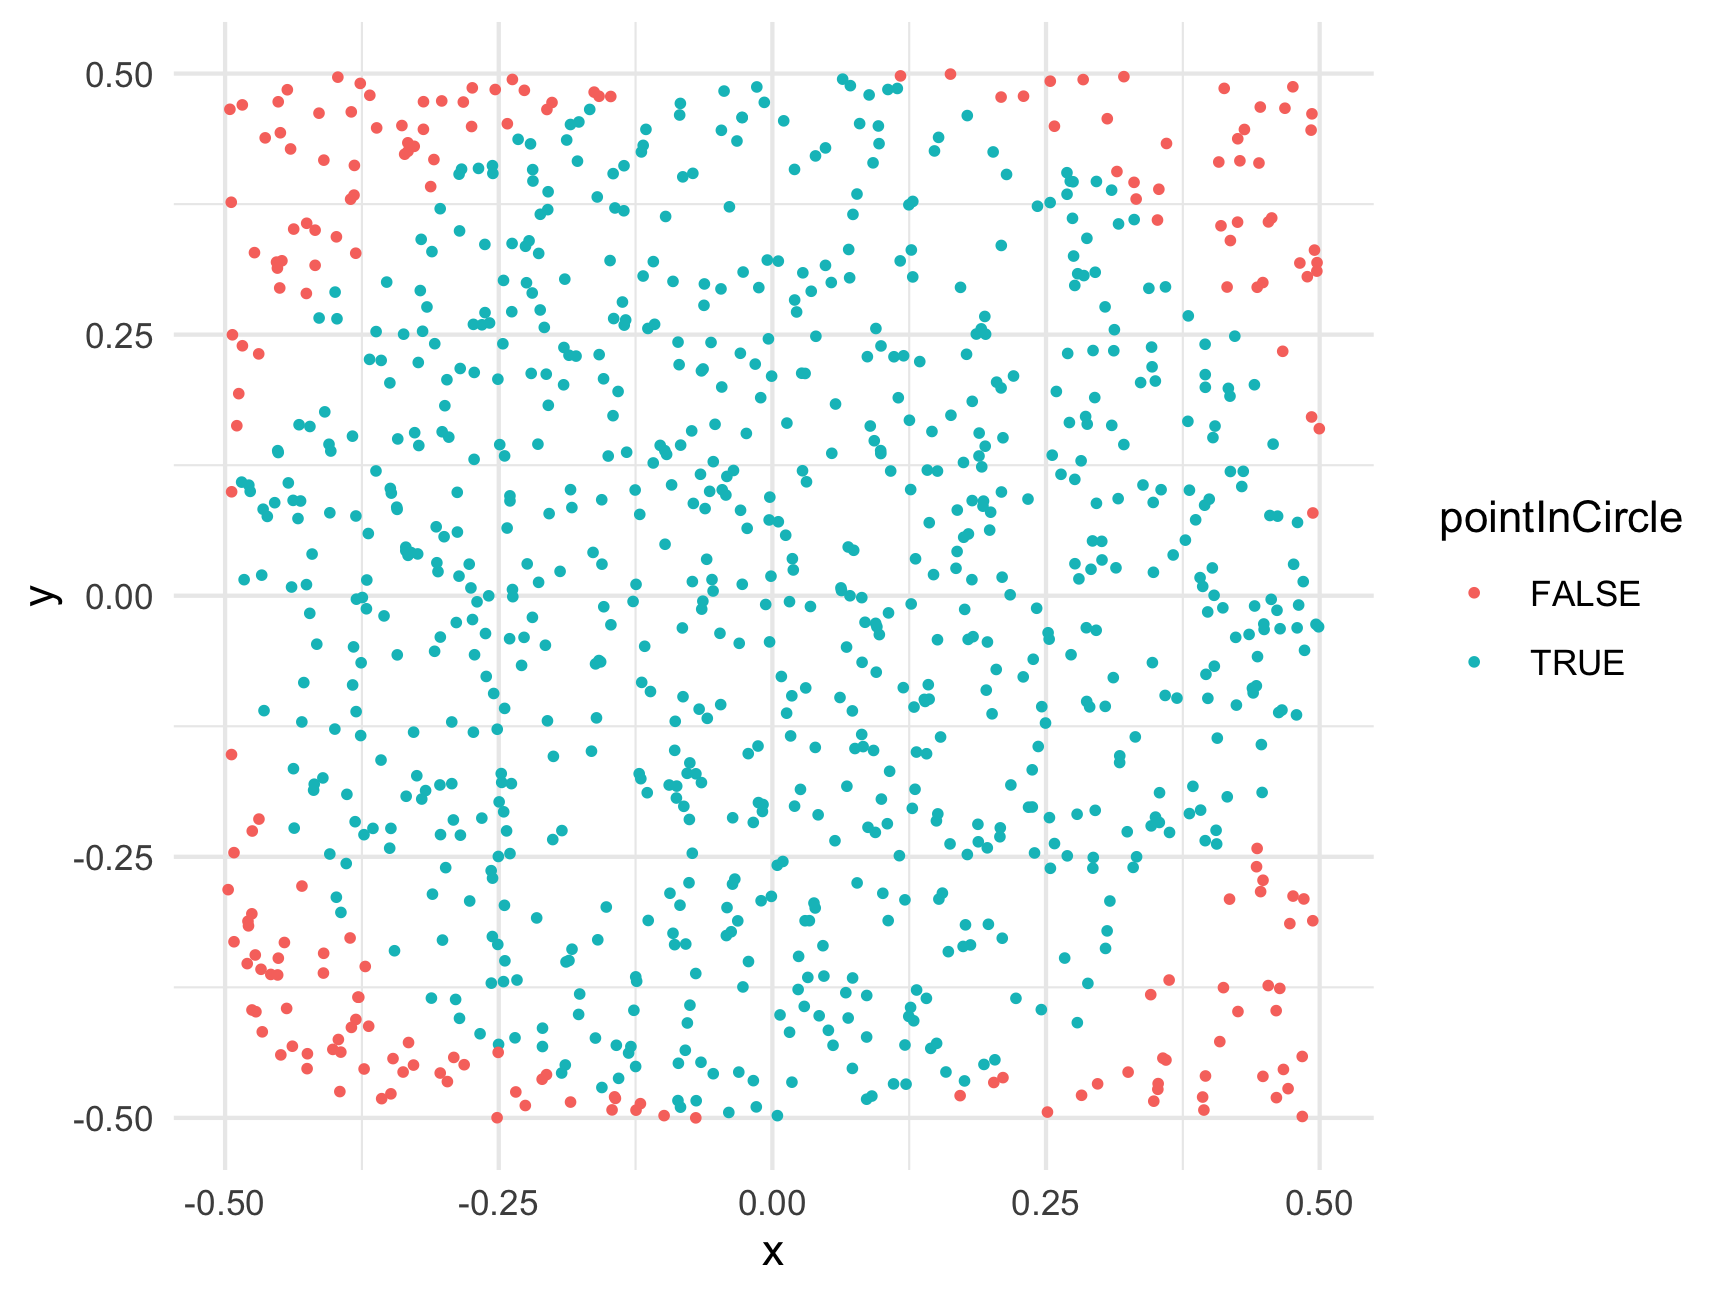
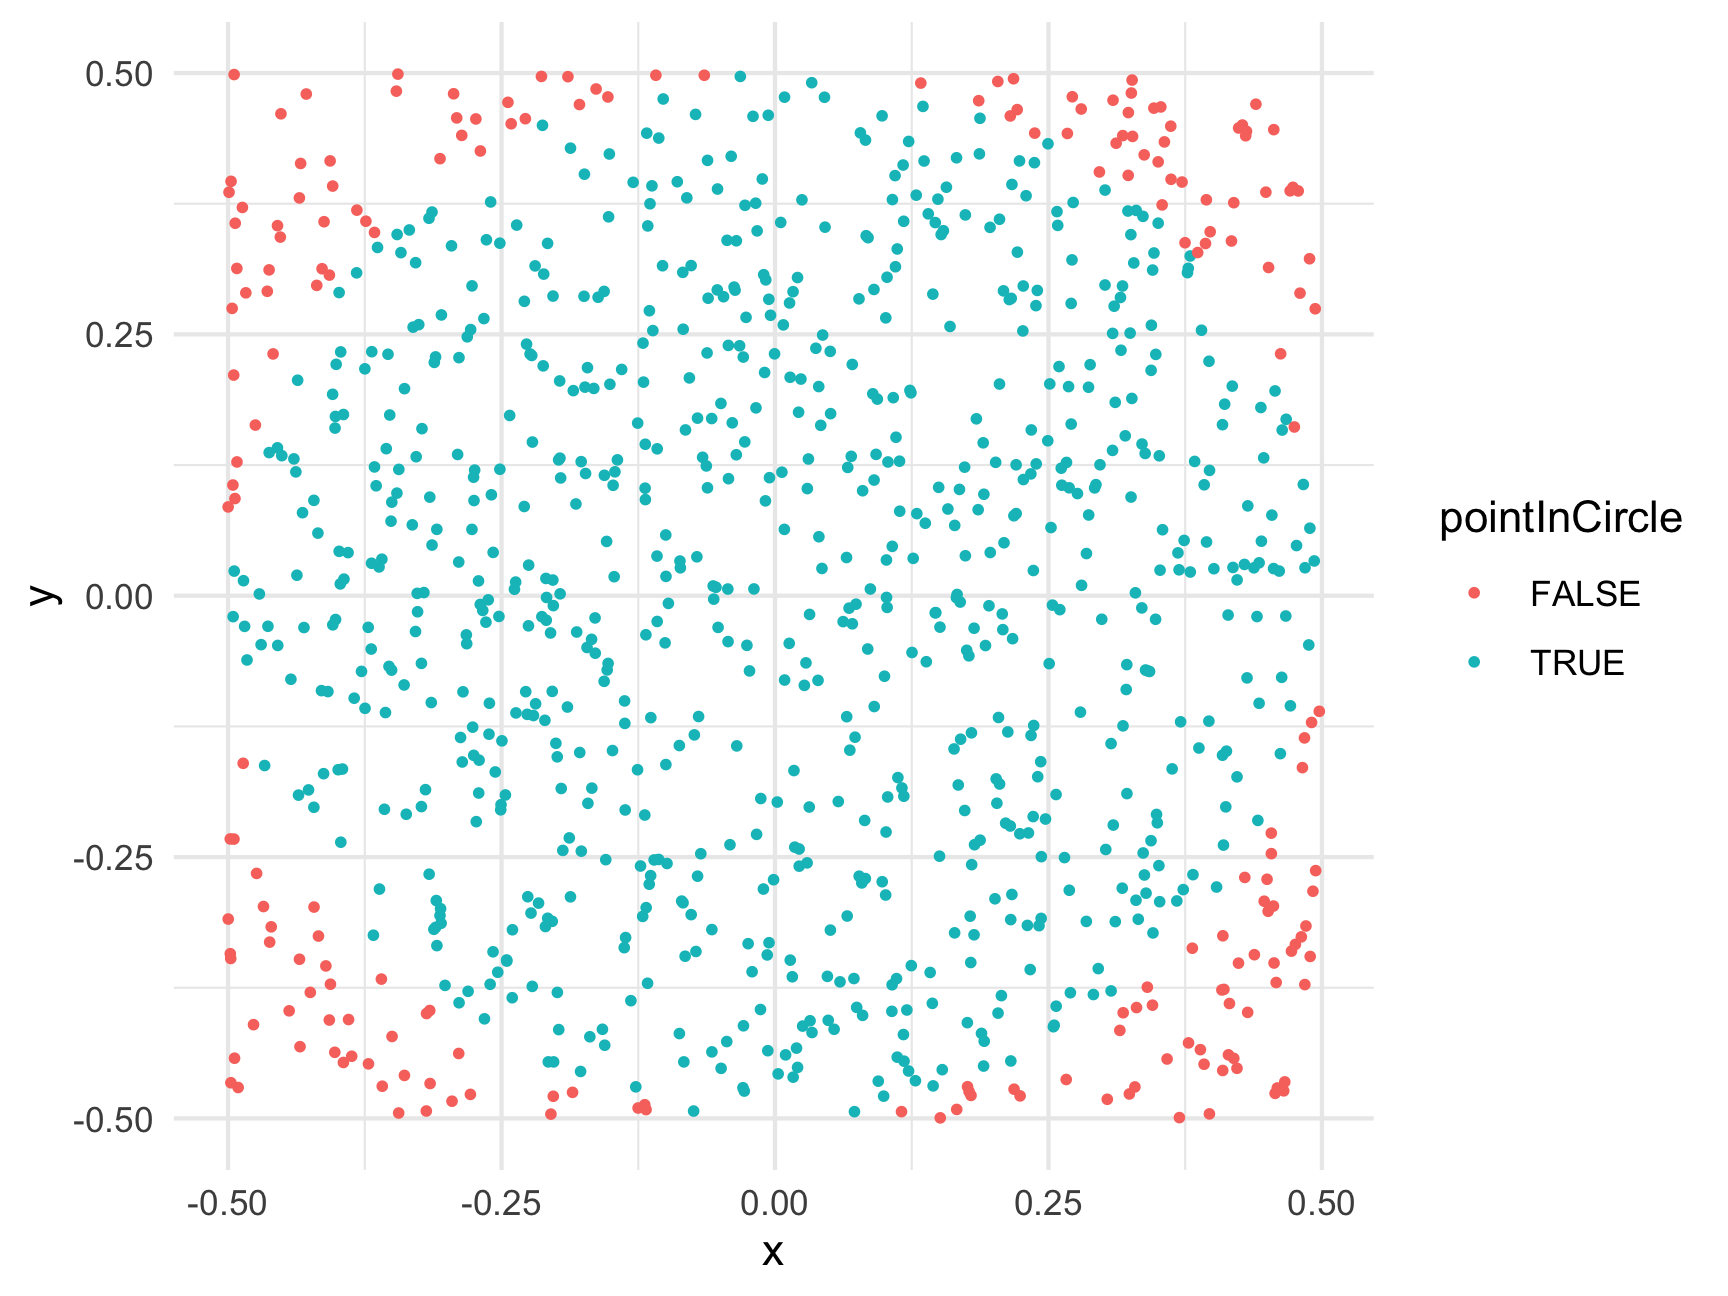
Deploying to gh-pages from  @ 436dbbbf7ea1b4c417142c6b020fd0c4f491478f 🚀

diff --git a/r13-monte-carlo-methods.html b/r13-monte-carlo-methods.html
@@ -805,11 +805,11 @@ ratio &lt;- sum(belowCurve) / numTrials
 totalArea &lt;- (7 - 3) * 7^2 # Rectangle length x height = 196
 areaUnderCurve &lt;- ratio * totalArea
 areaUnderCurve</code></pre>
-<pre><code>#&gt; [1] 104.909</code></pre>
-<p>So, using Monte Carlo simulation with 100,000 points, we estimate that the area under the curve is 104.909. How’d we do? Well, if you’re familiar with calculus, the integral of <span class="math inline">\(f(x) = x^2\)</span> has a closed-form solution (<span class="math inline">\(\frac{x^3}{3} + C\)</span>), so we can check our estimate against the pure-math solution:</p>
+<pre><code>#&gt; [1] 105.5048</code></pre>
+<p>So, using Monte Carlo simulation with 100,000 points, we estimate that the area under the curve is 105.50484. How’d we do? Well, if you’re familiar with calculus, the integral of <span class="math inline">\(f(x) = x^2\)</span> has a closed-form solution (<span class="math inline">\(\frac{x^3}{3} + C\)</span>), so we can check our estimate against the pure-math solution:</p>
 <p><span class="math display">\[\int_{3}^{7} x^2 \mathrm{dx} = \left ( \frac{x^3}{3} \right ) \Big|_3^7 = \frac{7^3}{3} - \frac{3^3}{3} = 105.33\bar{3}\]</span></p>
-<p>So our estimate error is: <code>105.333 -</code> <code>104.909</code> <code>=</code> <code>0.4243333</code>.</p>
-<p>That’s an error of just 0.4 % - not bad!</p>
+<p>So our estimate error is: <code>105.333 -</code> <code>105.50484</code> <code>=</code> <code>-0.1715067</code>.</p>
+<p>That’s an error of just 0.16 % - not bad!</p>
 <hr />
 </div>
 <div id="monte-carlo-pi" class="section level1">
@@ -840,12 +840,12 @@ points &lt;- data.frame(
     y = runif(numTrials, -0.5, 0.5))
 head(points)</code></pre>
 <pre><code>#&gt;            x           y
-#&gt; 1  0.2820623  0.12920177
-#&gt; 2 -0.2100104 -0.41409504
-#&gt; 3 -0.1134427 -0.31096536
-#&gt; 4  0.4610186 -0.01394981
-#&gt; 5 -0.1357023  0.36862737
-#&gt; 6  0.2861763  0.17159043</code></pre>
+#&gt; 1 -0.2523848 -0.01984019
+#&gt; 2  0.1101127  0.31468626
+#&gt; 3 -0.4972665  0.39638811
+#&gt; 4 -0.2278863 -0.09179000
+#&gt; 5  0.4487220  0.38602610
+#&gt; 6 -0.1229348 -0.25855116</code></pre>
 <p>For this example, we’re putting the points in a data frame to make it easier to work with. Now that we have random x and y points, let’s compute the radius to each point (the distance from <code>(x, y) = (0, 0)</code>) so we can determine which points fall inside the circle (which has a radius of 0.5):</p>
 <pre class="r"><code>library(dplyr)
 points &lt;- points %&gt;%
@@ -862,9 +862,9 @@ ggplot(points) +
 <pre class="r"><code>ratio &lt;- sum(points$pointInCircle) / nrow(points)
 piApprox &lt;- 4 * ratio
 piApprox</code></pre>
-<pre><code>#&gt; [1] 3.192</code></pre>
-<p>So our estimate error is: <code>3.1415 -</code> <code>3.192</code> <code>=</code> <code>0.0504073</code>.</p>
-<p>That’s an error of just 1.6 % - not bad for only 1,000 points!</p>
+<pre><code>#&gt; [1] 3.172</code></pre>
+<p>So our estimate error is: <code>3.1415 -</code> <code>3.172</code> <code>=</code> <code>0.0304073</code>.</p>
+<p>That’s an error of just 0.97 % - not bad for only 1,000 points!</p>
 <p>To get an even better estimate of <span class="math inline">\(\pi\)</span>, we can increase N. Let’s see what we get with 100,000 trials:</p>
 <pre class="r"><code>numTrials &lt;- 100000
 points &lt;- data.frame(
@@ -876,13 +876,13 @@ points &lt;- data.frame(
 ratio &lt;- sum(points$pointInCircle) / nrow(points)
 piApprox &lt;- 4 * ratio
 piApprox</code></pre>
-<pre><code>#&gt; [1] 3.13852</code></pre>
+<pre><code>#&gt; [1] 3.13936</code></pre>
 <pre class="r"><code># Compute error:
 error &lt;- piApprox - pi
 percentError &lt;- round(100*abs(error / pi), 2)
 percentError</code></pre>
-<pre><code>#&gt; [1] 0.1</code></pre>
-<p>By increasing the number of trials from 1,000 to 100,000, we improved our estimate error from 1.6 % to 0.1 %!</p>
+<pre><code>#&gt; [1] 0.07</code></pre>
+<p>By increasing the number of trials from 1,000 to 100,000, we improved our estimate error from 0.97 % to 0.07 %!</p>
 <hr />
 <p><strong>Page sources</strong>:</p>
 <p>Some content on this page has been modified from other courses, including:</p>

diff --git a/r2-functions-packages.html b/r2-functions-packages.html
@@ -763,7 +763,7 @@ div.tocify {
 <p>Here the letters <code>sqrt</code> are short for “square root,” and the value inside the <code>()</code> is the “argument” to the function. In the example above, the value <code>225</code> is the “argument”.</p>
 <p>Keep in mind that not all functions have (or require) arguments:</p>
 <pre class="r"><code>date() # Returns the current date and time</code></pre>
-<pre><code>#&gt; [1] &quot;Thu Feb 24 12:56:13 2022&quot;</code></pre>
+<pre><code>#&gt; [1] &quot;Thu Feb 24 13:03:24 2022&quot;</code></pre>
 <p>(the date above is the date this page was last built)</p>
 <div id="multiple-arguments" class="section level2">
 <h2>Multiple arguments</h2>
@@ -981,9 +981,9 @@ library(packagename)   # This also works</code></pre>
 <p>Now that you have the package installed on your computer, try loading it using <code>library(wikifacts)</code>, then trying using some of it’s functions:</p>
 <pre class="r"><code>library(wikifacts) # Load the library</code></pre>
 <pre class="r"><code>wiki_randomfact()</code></pre>
-<pre><code>#&gt; [1] &quot;Did you know that on March 21 in 1960 – Police in Sharpeville, South Africa, opened fire on a group of unarmed black demonstrators (depicted) who were protesting pass laws, killing almost 70 people and wounding about 180 others. (Courtesy of Wikipedia)&quot;</code></pre>
+<pre><code>#&gt; [1] &quot;Did you know that footballer Pádraig Amond represented Carlow at hurling under a false name to avoid being discovered by his club? (Courtesy of Wikipedia)&quot;</code></pre>
 <pre class="r"><code>wiki_didyouknow()</code></pre>
-<pre><code>#&gt; [1] &quot;Did you know that the burial shroud of Moldavian Princess consort Maria of Mangup (pictured) is both the oldest found in a Romanian monastery and \&quot;the most beautiful one\&quot;? (Courtesy of Wikipedia)&quot;</code></pre>
+<pre><code>#&gt; [1] &quot;Did you know that Nike Wagner removed Beethoven&#39;s Ninth Symphony from the program of the festival Beethovenfest? (Courtesy of Wikipedia)&quot;</code></pre>
 <p>In case you’re wondering, the only thing this package does is generate messages containing random facts from <a href="https://www.wikipedia.org/">Wikipedia</a>.</p>
 </div>
 <div id="using-only-some-package-functions" class="section level2">
@@ -994,7 +994,7 @@ library(packagename)   # This also works</code></pre>
 </blockquote>
 <p>Here I use the name of the <em>package</em> followed by <code>::</code> to tell R that I’m looking for a function that is in that package. For example, if I didn’t want to load the whole <strong>wikifacts</strong> library but still wanted to use the <code>wiki_randomfact()</code> function, I could do this:</p>
 <pre class="r"><code>wikifacts::wiki_randomfact()</code></pre>
-<pre><code>#&gt; [1] &quot;Here&#39;s some news from 25 February 2015. At least sixteen people are killed in a stampede at a Mardi Gras parade in Port-au-Prince, Haiti. (Courtesy of Wikipedia)&quot;</code></pre>
+<pre><code>#&gt; [1] &quot;Did you know that the manga My Brother&#39;s Husband by Gengoroh Tagame tackles issues of homophobia in Japanese society? (Courtesy of Wikipedia)&quot;</code></pre>
 <p>Where this is particularly handy is when two packages have a function with the same name. If you load both library, R might not know which function to use. In those cases, it’s best to also provide the <strong>package</strong> name. For example, let’s say there was a package called <strong>apples</strong> and another called <strong>bananas</strong>, and each had a function named <code>fruitName()</code>. If I wanted to use each of them in my code, I would need to specify the package names like this:</p>
 <pre class="r"><code>apples::fruitName()
 bananas::fruitName()</code></pre>

diff --git a/syllabus.html b/syllabus.html
@@ -1029,13 +1029,12 @@ div.tocify {
 </div>
 <div id="late-policy" class="section level2">
 <h2><span class="header-section-number">9.2</span> Late Policy</h2>
-<p>Homework assignment due dates are “soft,” but the longer you wait to complete each assignment, the poorer you’ll likely do on quizzes and exams.</p>
-<p>There are two <strong>hard</strong> deadlines for submitting homework assignments:</p>
+<p>Due dates are “soft” for homeworks 1-7. Any assignments submitted before March 10 (the midterm) will be graded for full credit. For homeworks 8-12, the late policy is as follows:</p>
 <ul>
-<li>March 10: Homeworks 1-7</li>
-<li>May 5: Homeworks 8-12</li>
+<li>Up to 3 days late for full credit</li>
+<li>Up to 1 week for 50% credit</li>
+<li>Beyond 1 week late will not be graded (i.e. a 0)</li>
 </ul>
-<p>These deadlines are to ensure that you will be prepared for the Midterm (which covers weeks 1-7) and the Final Exam (which is cumulative).</p>
 </div>
 <div id="collaboration-policy" class="section level2">
 <h2><span class="header-section-number">9.3</span> Collaboration Policy</h2>
